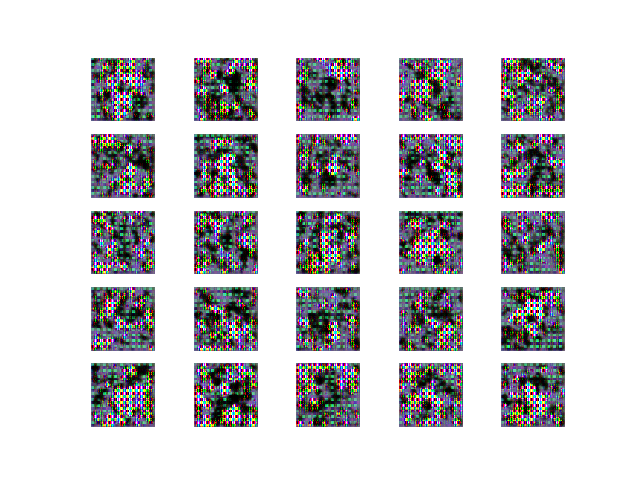
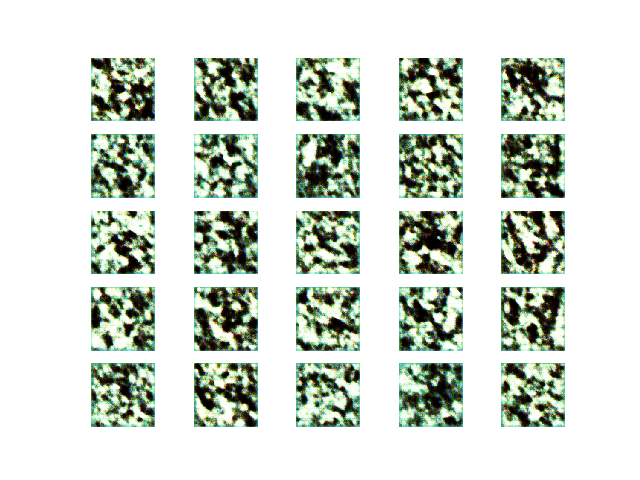
Loss no longer goes up and some blurry dog/cat-like images are back

diff --git a/dog_cat_gan.py b/dog_cat_gan.py
@@ -23,8 +23,8 @@ class DCGAN():
         self.img_height = 150
         self.input_shape = (self.img_width, self.img_height, 3) #3 channels for color
 
-        optimizer_g = Adam(0.0002)
-        optimizer_d = SGD(0.0005)
+        optimizer_g = Adam(0.0002, 0.5)
+        optimizer_d = Adam(0.0005, 0.5)
 
         #SGD with 0.0002 is super checkerboarded, no smooth lines at all (Epoch 0 and 5)
         #Adam with 0.0002 is a little checkerboarded it still makes smooth shapes (Epoch 0 and 5)
@@ -38,7 +38,7 @@ class DCGAN():
         self.G = self.build_generator()
         self.G.summary()
 
-        self.D.trainable = False
+        # self.D.trainable = False
         self.stacked = self.build_stacked()
         self.stacked.compile(loss=keras.losses.binary_crossentropy, optimizer = optimizer_g, metrics=[self.custom_acc])
         self.stacked.summary()
@@ -74,11 +74,11 @@ class DCGAN():
         G.add(LeakyReLU())
         G.add(Reshape((36,36,64)))
         G.add(Dropout(0.4))
-        G.add(Conv2DTranspose(64, kernel_size=(4,4), strides=(2,2)))
+        G.add(Conv2DTranspose(128, kernel_size=(4,4), strides=(2,2)))
         G.add(BatchNormalization(momentum=0.9))
         G.add(LeakyReLU())
         G.add(Dropout(0.4))
-        G.add(Conv2DTranspose(32, kernel_size=(4,4), strides=(2,2)))
+        G.add(Conv2DTranspose(64, kernel_size=(4,4), strides=(2,2)))
         G.add(BatchNormalization(momentum=0.9))
         G.add(LeakyReLU())
         G.add(Conv2DTranspose(3, kernel_size=(3,3), padding='same', activation='tanh')) #pixel values between [0.,1.]
@@ -109,8 +109,9 @@ class DCGAN():
             #train real images on disciminator: D(x) = update D params per classification for real images
 
         #Update D params
-        d_loss_fake = self.D.train_on_batch(Gz_batch, np.zeros((len(Gz_batch), 1)) ) #fake=0
+        self.D.trainable = True
         d_loss_real = self.D.train_on_batch(x_batch, np.random.uniform(0.9, 1.0, size=(len(x_batch), 1)) ) #real=1, positive label smoothing
+        d_loss_fake = self.D.train_on_batch(Gz_batch, np.zeros((len(Gz_batch), 1)) ) #fake=0
         d_loss = 0.5*np.add(d_loss_real, d_loss_fake)
 
         return d_loss #(loss, accuracy) tuple
@@ -123,6 +124,7 @@ class DCGAN():
             #train fake images on discriminator: D(G(z)) = update G params per D's classification for fake images
 
         #Update G params
+        self.D.trainable = False
         noise_batch =  np.random.normal(0.0, 1.0, size=(batch_size, 100)) #generate the same number of noisy images as in the training batch
         g_loss = self.stacked.train_on_batch(noise_batch, np.ones((batch_size, 1)) ) #G wants D to mark these as real=1
 
@@ -142,10 +144,10 @@ class DCGAN():
         #y_train shape (1000, )            (num_training_data, )
         x_test, _ = self.preprocess(test, TEST_DIREC+"/")
         y_test = []
-        d_loss = 0.
-        d_acc = 0.
-        g_loss = 0.
-        g_acc = 0.
+        # d_loss = 0.
+        # d_acc = 0.
+        # g_loss = 0.
+        # g_acc = 0.
 
         epochs = 1000
         batch_size = 128
@@ -167,13 +169,15 @@ class DCGAN():
                     start = batch_size*batch_index
                     end = batch_size*(batch_index+1)
                     batches = self.get_batches(start, end, x_train)
-                    (d_loss_batch, d_acc_batch) = self.train_D_on_batch(batches)
-                    d_loss += d_loss_batch
-                    d_acc += d_acc_batch
+                    # (d_loss_batch, d_acc_batch) = self.train_D_on_batch(batches)
+                    # d_loss += d_loss_batch
+                    # d_acc += d_acc_batch
+                    self.train_D_on_batch(batches)
                     batch_index += 1
-                (g_loss_batch, g_acc_batch) = self.train_G_on_batch(batch_size)
-                g_loss += g_loss_batch
-                g_acc += g_acc_batch
+                # (g_loss_batch, g_acc_batch) = self.train_G_on_batch(batch_size)
+                # g_loss += g_loss_batch
+                # g_acc += g_acc_batch
+                self.train_G_on_batch(batch_size)
 
             leftover_batches = num_batches % k
             if leftover_batches == 0:
@@ -183,25 +187,29 @@ class DCGAN():
                 start = batch_size*batch_index
                 end = batch_size*(batch_index+1)
                 batches = self.get_batches(start, end, x_train)
-                (d_loss_batch, d_acc_batch) = self.train_D_on_batch(batches)
-                d_loss += d_loss_batch
-                d_acc += d_acc_batch
+                # (d_loss_batch, d_acc_batch) = self.train_D_on_batch(batches)
+                # d_loss += d_loss_batch
+                # d_acc += d_acc_batch
+                self.train_D_on_batch(batches)
                 batch_index += 1
 
             start = batch_size*batch_index
             end = len(x_train)
             batches = self.get_batches(start, end, x_train)
-            (d_loss_batch, d_acc_batch) = self.train_D_on_batch(batches)
-            print(d_loss_batch)
-            d_loss += d_loss_batch
-            d_acc += d_acc_batch
+            # (d_loss_batch, d_acc_batch) = self.train_D_on_batch(batches)
+            # print(d_loss_batch)
+            # d_loss += d_loss_batch
+            # d_acc += d_acc_batch
+            #
+            # (g_loss_batch, g_acc_batch) = self.train_G_on_batch(batch_size)
+            # g_loss += g_loss_batch
+            # g_acc += g_acc_batch
 
-            (g_loss_batch, g_acc_batch) = self.train_G_on_batch(batch_size)
-            g_loss += g_loss_batch
-            g_acc += g_acc_batch
+            (d_loss, d_acc) = self.train_D_on_batch(batches)
+            (g_loss, g_acc) = self.train_G_on_batch(batch_size)
 
-            d_acc /= (num_batches)
-            g_acc /= (num_batches)
+            # d_acc /= (num_batches)
+            # g_acc /= (num_batches)
 
             print("Discriminator -- Loss:%f\tAccuracy%.2f%%\nGenerator -- Loss:%f\tAccuracy%.2f%%" %(d_loss, d_acc*100., g_loss, g_acc*100.))
 
